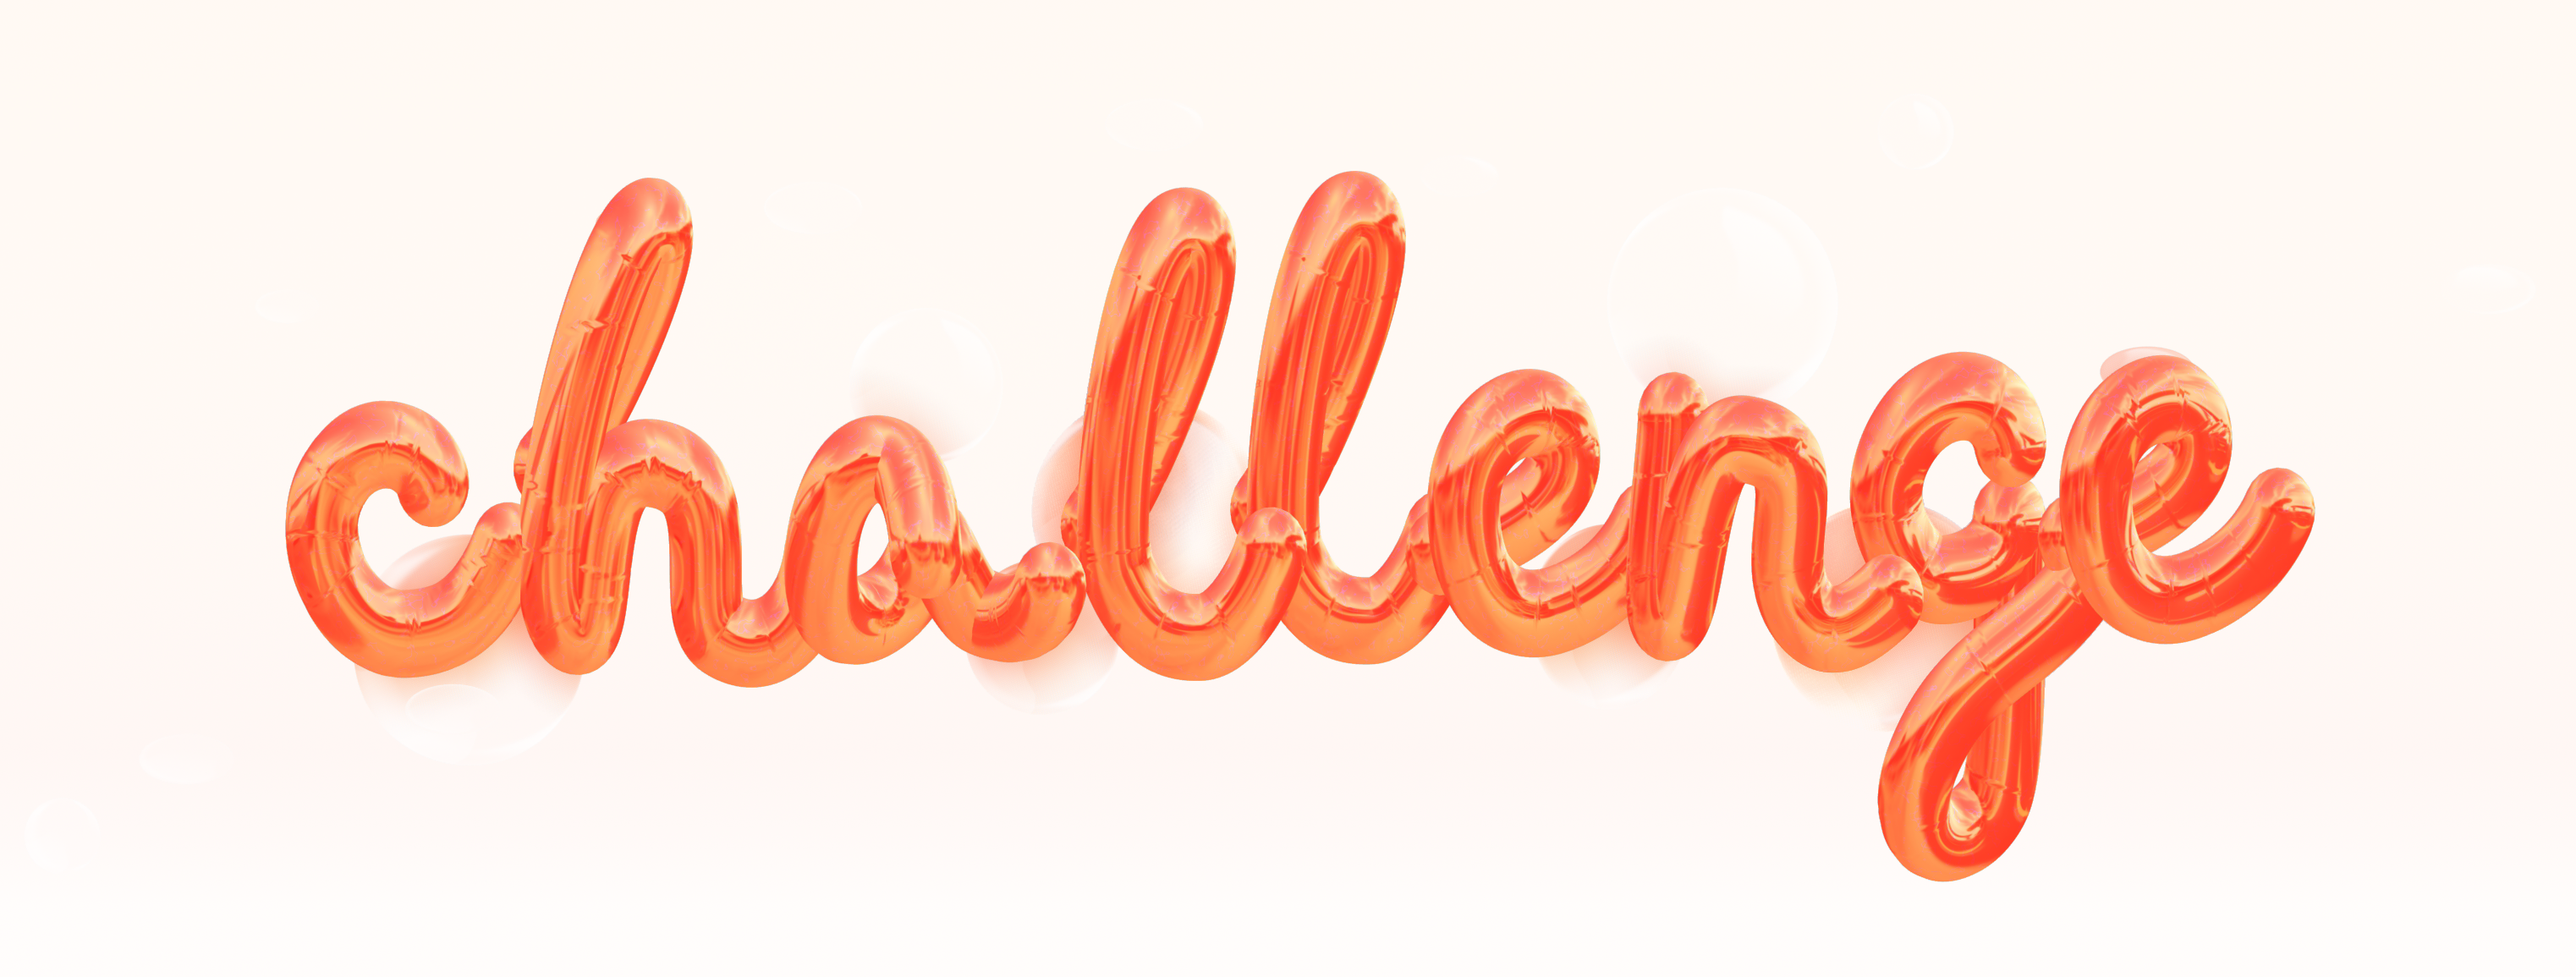
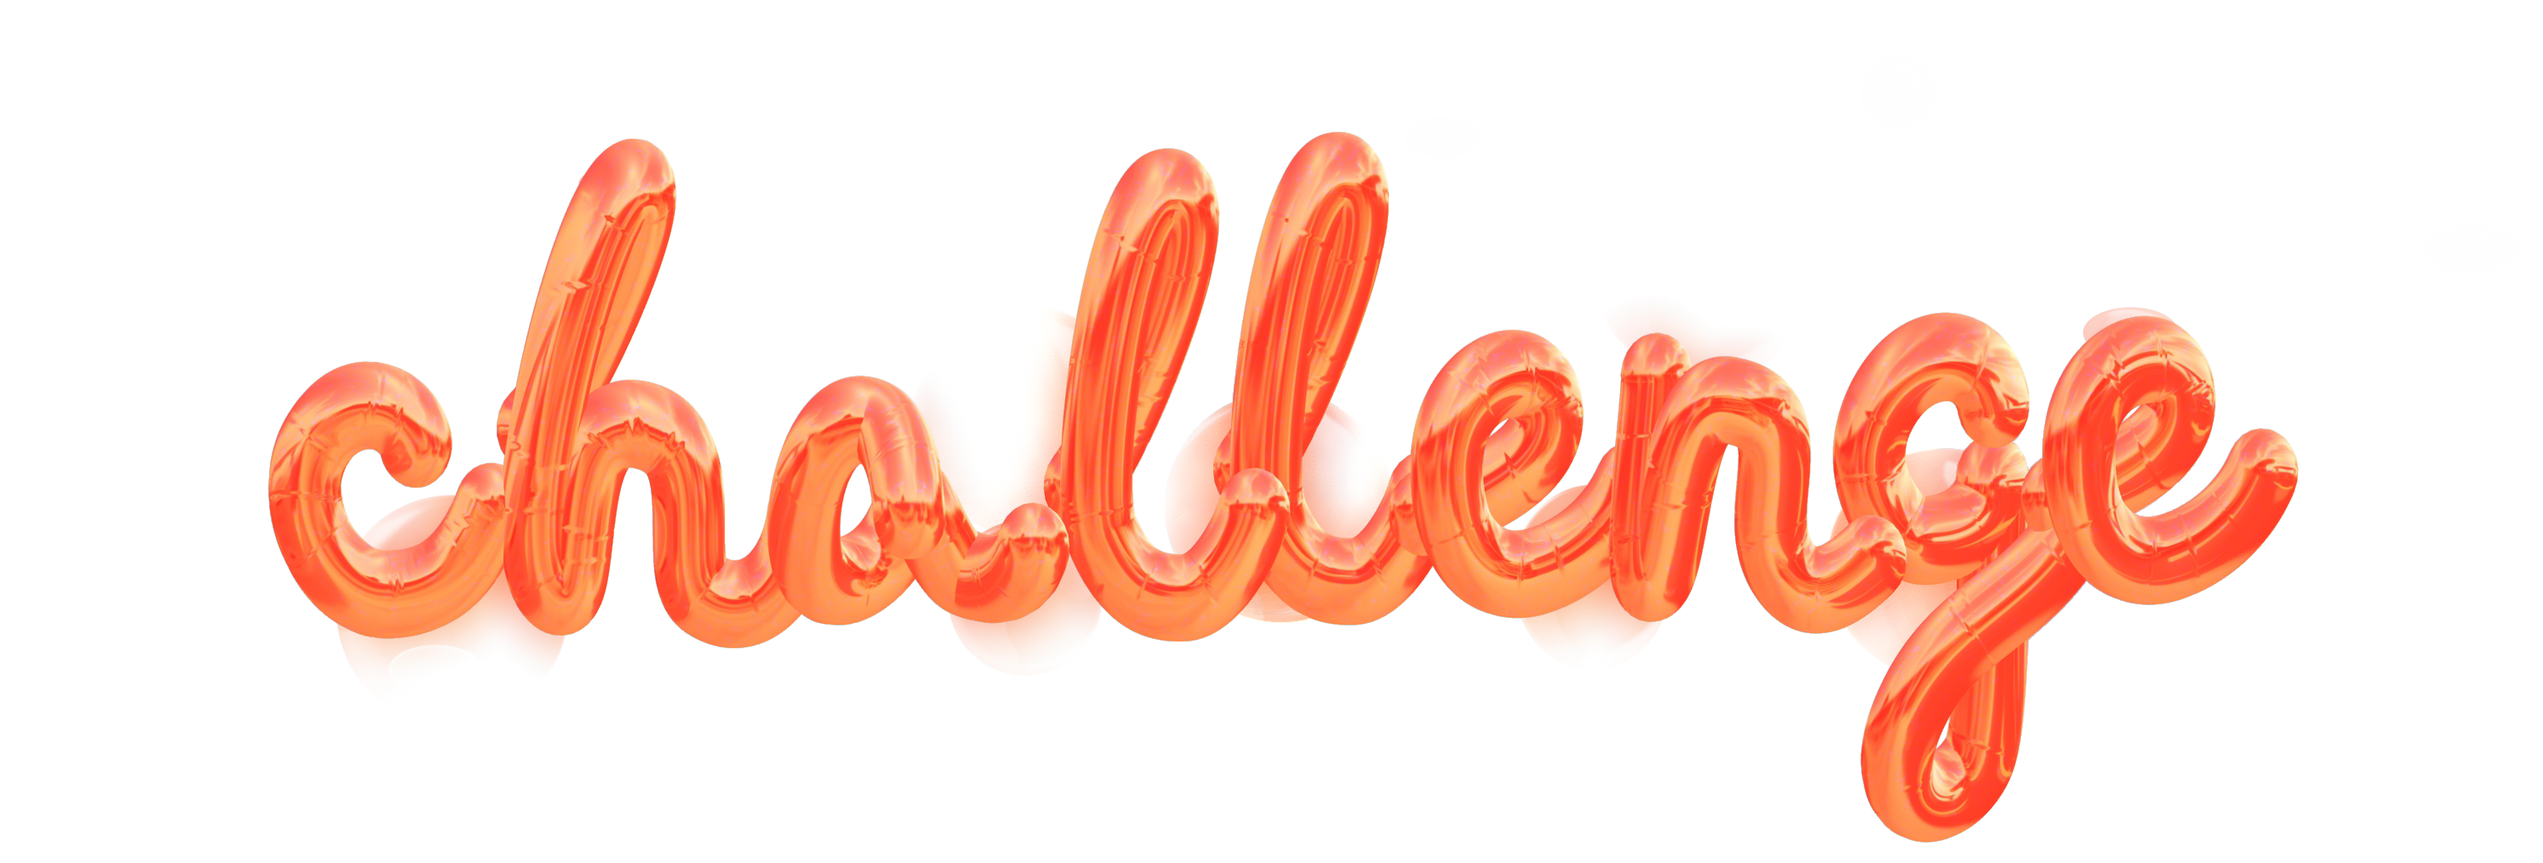
refactor: 히어로 이미지 수정

Changed region(s): [[0.0928, 0.1518, 0.9281, 0.9716]]

diff --git a/web/src/pages/challenge/landing/components/Hero.tsx b/web/src/pages/challenge/landing/components/Hero.tsx
@@ -104,8 +104,6 @@ const Container = styled.section<{ device: Device }>`
   flex-direction: column;
   align-items: center;
   justify-content: center;
-
-  background: linear-gradient(to bottom, #fff9f3 0%, #fffdfb 90%, #fff 100%);
 `;
 
 const BackgroundImage = styled.div<{ device: Device }>`
@@ -130,16 +128,6 @@ const BackgroundImage = styled.div<{ device: Device }>`
     z-index: ${({ theme }) => theme.zIndex.content};
     width: 100%;
     height: 100%;
-
-    background: ${({ device }) => {
-      const topGradient = device === 'mobile' ? '25vh' : '300px';
-      const bottomGradient = device === 'mobile' ? '55vh' : '280px';
-
-      return `
-        linear-gradient(to bottom, #fff9f3 0%, transparent ${topGradient}),
-        linear-gradient(to top, #fff 0%, transparent ${bottomGradient})
-      `;
-    }};
 
     content: '';
     pointer-events: none;
